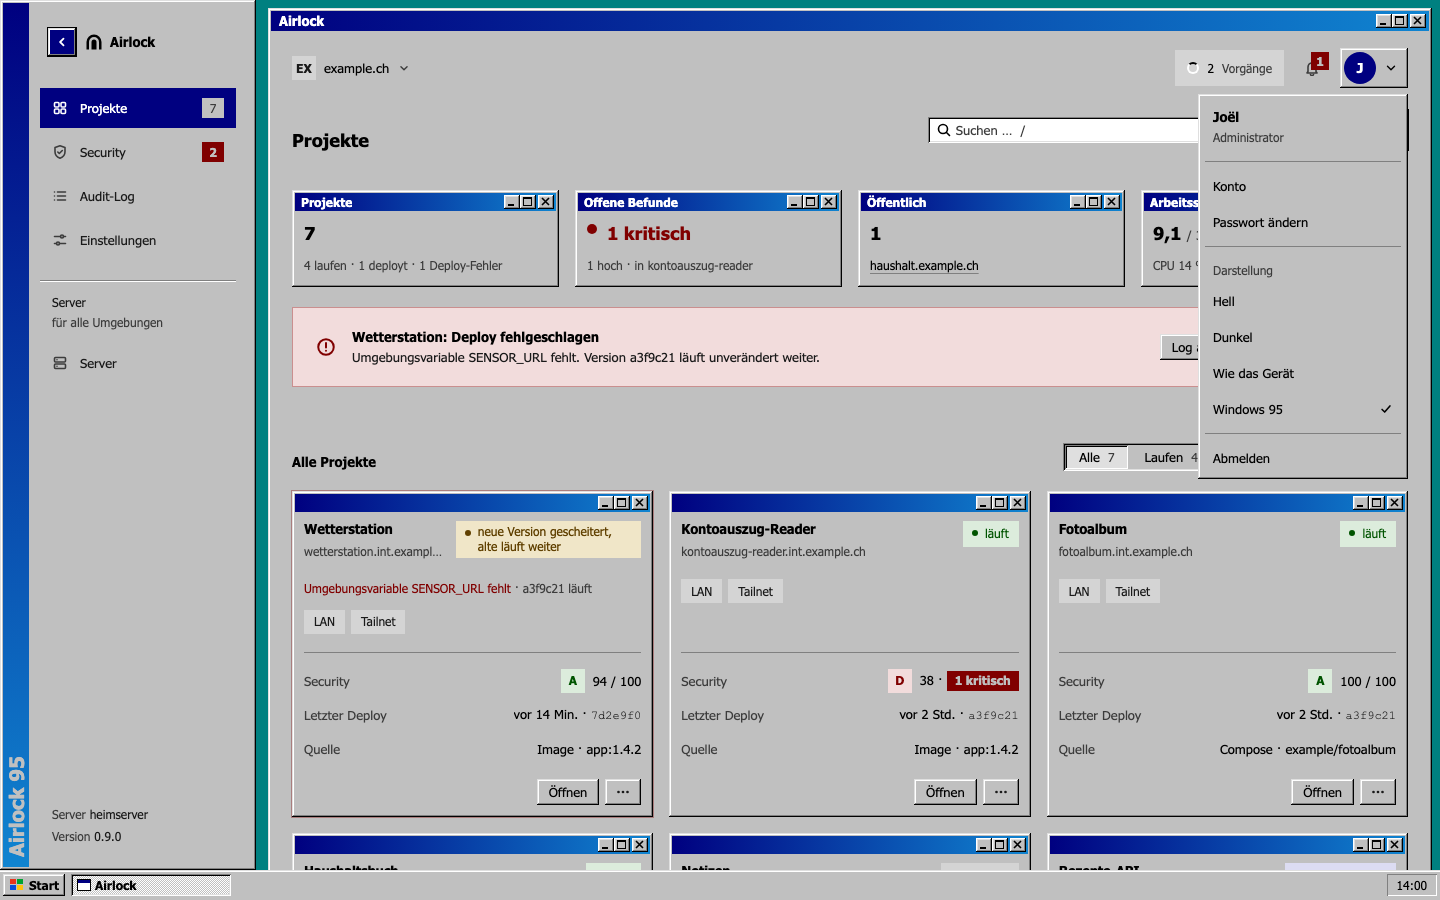
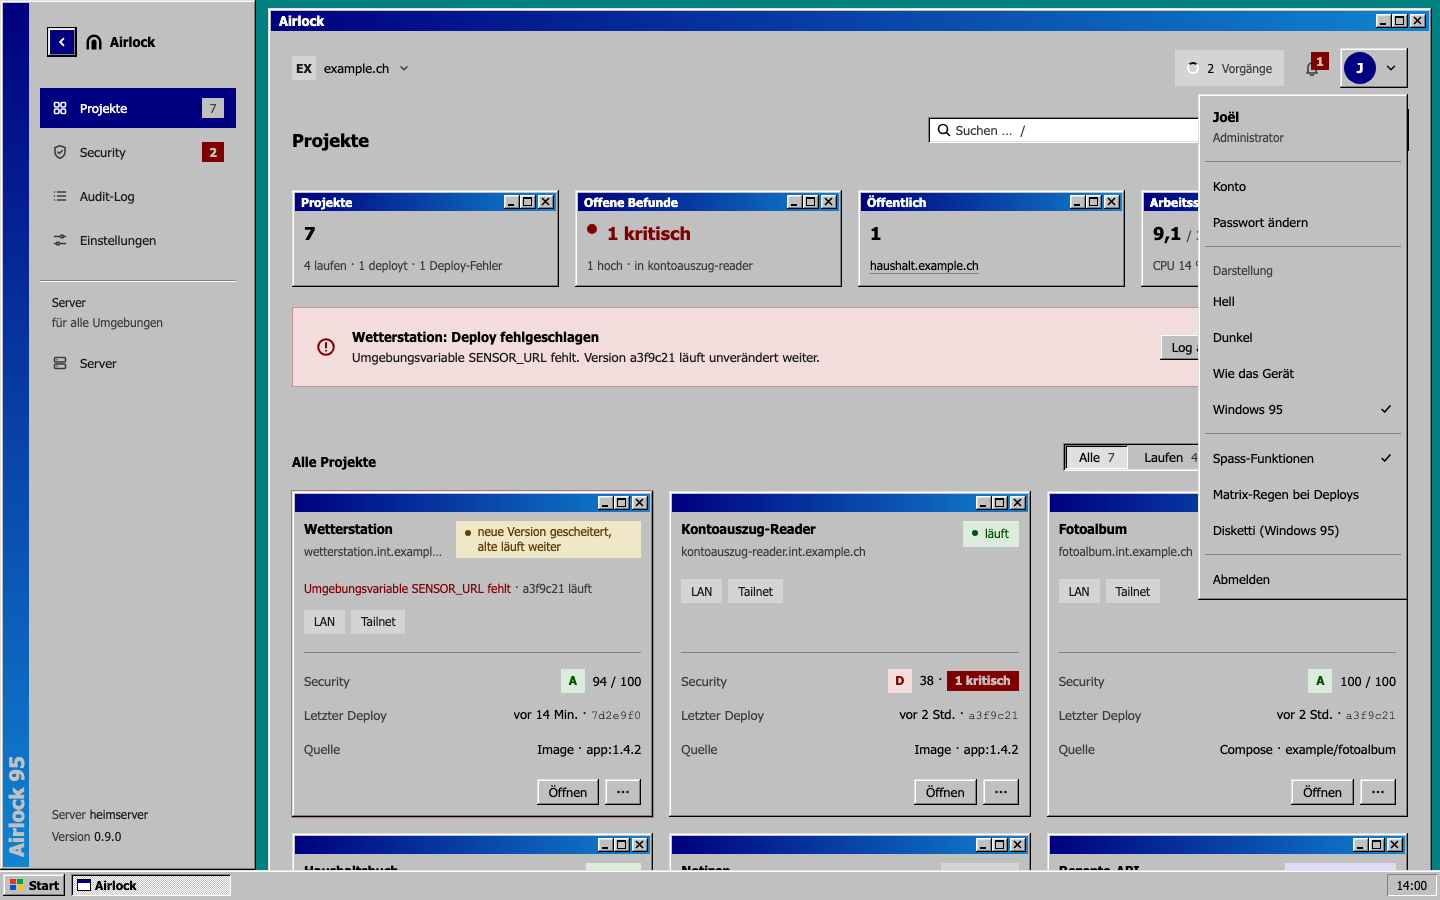
Visuelle Referenzen Etappe 7 (Spass-Paket) und Terminal-Szenen
Neue Szenen: terminal-freigeschaltet, matrix-regen, konto-achievements, achievement-neu,
snake-404 (hell/dunkel), disketti, disketti-fehler, disketti-ja (Windows 95) und die
Hauptseiten im Theme «Terminal» (TERMINAL_SCENES, *-terminal.png, visuell und axe).

Bewusst geänderte Bilder:
- shell-profilmenue-hell/-dunkel/-win95: Gruppe «Spass» im Profilmenü (Spass-Funktionen,
  Matrix-Regen; in Windows 95 zusätzlich Disketti)
- konto-hell/-dunkel: neuer Abschnitt «Achievements» unter «Passwort ändern»
- design-bausteine-hell/-dunkel/-win95: vierte Spalte «Terminal», Spalten jetzt 2 × 2;
  die Spalte «Dunkel» behält auf einer Seite in einem versteckten Theme Inter und ihre Radien

Changed region(s): [[0.8125, 0.4978, 1.0, 0.6533]]

diff --git a/packages/web/visual/scenes.ts b/packages/web/visual/scenes.ts
@@ -51,6 +51,9 @@ export const VISUAL_SCENES = [
   'statusseite-oeffentlich', 'statusseite-oeffentlich-tooltip', 'statusseite-oeffentlich-ruhig',
   // Etappe 6: Vorschau-Deploys – Liste, Löschen bestätigen, an und leer, aus; Einstellungen, Variablen, ohne Git-Repo
   'vorschauen', 'vorschauen-loeschen', 'vorschauen-leer', 'vorschauen-aus', 'vorschauen-einstellungen', 'vorschauen-variablen', 'vorschauen-nicht-moeglich',
+  // Etappe 7: Spass-Paket – «sudo» in ⌘K, Matrix-Regen (festes Bild, Schalter an), Achievements im Konto und als
+  // Meldung, Snake-Seite für unbekannte interne Namen (eigenes HTML, hell/dunkel nach dem Gerät)
+  'terminal-freigeschaltet', 'matrix-regen', 'konto-achievements', 'achievement-neu', 'snake-404',
 ] as const
 
 /**
@@ -74,6 +77,18 @@ export const WIN95_SCENES: readonly string[] = [
   'win95-minimiert', 'win95-maximiert', 'win95-hauptfenster-maximiert', 'win95-startmenue', 'win95-beenden',
   // Ganze App über den Taskleisten-Knopf minimiert und wieder geholt (die Taskleiste muss stehen bleiben)
   'win95-app-minimiert', 'win95-app-zurueck',
+  // Etappe 7: Disketti (nur in Windows 95) – offener Befund, gescheiterter Deploy, «Ja» öffnet den Ablauf
+  'disketti', 'disketti-fehler', 'disketti-ja',
+]
+
+/**
+ * Etappe 7: verstecktes Theme «Terminal» – die Hauptseiten (Bilder *-terminal.png),
+ * visuell und mit axe. Cursor und Matrix-Regen ruhen (reduzierte Bewegung); die
+ * Matrix-Szene zeichnet ein festes Bild.
+ */
+export const TERMINAL_SCENES: readonly string[] = [
+  'login', 'shell-profilmenue', 'projekte', 'projekt-uebersicht', 'projekt-deployments', 'projekt-security', 'projekt-einstellungen',
+  'audit', 'konto', 'bestaetigung-stoppen', 'design-bausteine', 'palette', 'terminal-freigeschaltet', 'matrix-regen',
 ]
 
 export const A11Y_SCENES = VISUAL_SCENES.filter((n) => !['laden-projekte', 'zustand-laden-projektseite', 'zustand-laden-audit', 'aktion-knopf-laedt'].includes(n))

diff --git a/packages/web/visual/a11y.spec.ts b/packages/web/visual/a11y.spec.ts
@@ -4,7 +4,7 @@ import { test, expect } from '@playwright/test'
 import AxeBuilder from '@axe-core/playwright'
 import { contextOptions, installRoutes, openShot, shots } from '../design-shots/shoot.js'
 import { VISUAL_PORT } from './playwright.config.js'
-import { A11Y_SCENES, WIN95_SCENES } from './scenes.js'
+import { A11Y_SCENES, TERMINAL_SCENES, WIN95_SCENES } from './scenes.js'
 
 /**
  * Barrierefreiheit mit axe-core: alle Hauptseiten und Zustände in Hell und
@@ -19,6 +19,8 @@ const RUNS = [
   { theme: 'dunkel', t: 'dark', scenes: A11Y_SCENES },
   // Verstecktes Theme «Windows 95»: dieselben Regeln
   { theme: 'win95', t: 'win95', scenes: WIN95_SCENES },
+  // Etappe 7: verstecktes Theme «Terminal»
+  { theme: 'terminal', t: 'terminal', scenes: TERMINAL_SCENES },
 ] as const
 for (const { theme, t, scenes } of RUNS) {
   for (const name of scenes) {

diff --git a/packages/web/visual/ui.spec.ts b/packages/web/visual/ui.spec.ts
@@ -3,13 +3,14 @@ import { FIXED_NOW } from './fixed-clock.js'
 import { test, expect } from '@playwright/test'
 import { contextOptions, installRoutes, openShot, shots } from '../design-shots/shoot.js'
 import { VISUAL_PORT } from './playwright.config.js'
-import { VISUAL_SCENES, WIN95_SCENES } from './scenes.js'
+import { TERMINAL_SCENES, VISUAL_SCENES, WIN95_SCENES } from './scenes.js'
 
 /** Hauptseiten und wichtige Zustände (Liste in visual/scenes.ts), je Hell und Dunkel; einige auch in «Windows 95». */
 const RUNS = [
   { theme: 'hell', t: 'light', scenes: VISUAL_SCENES },
   { theme: 'dunkel', t: 'dark', scenes: VISUAL_SCENES },
   { theme: 'win95', t: 'win95', scenes: WIN95_SCENES },
+  { theme: 'terminal', t: 'terminal', scenes: TERMINAL_SCENES },
 ] as const
 for (const { theme, t, scenes } of RUNS) {
   for (const name of scenes) {
